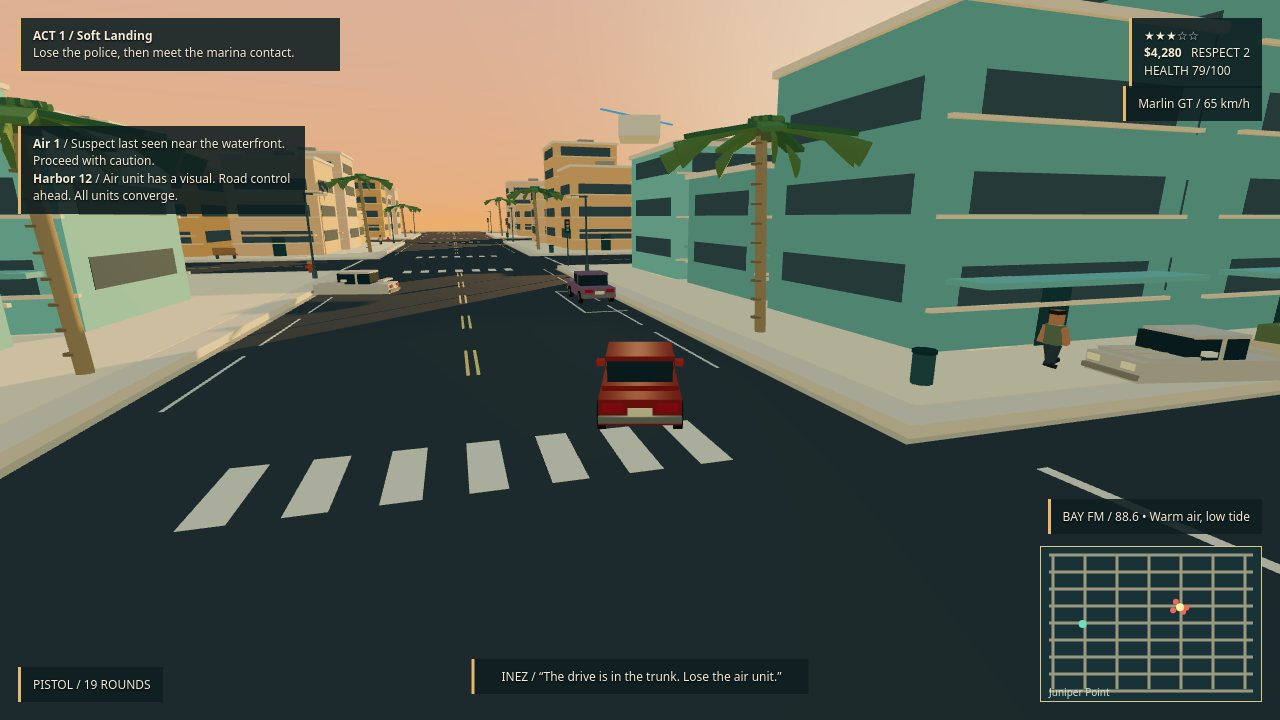
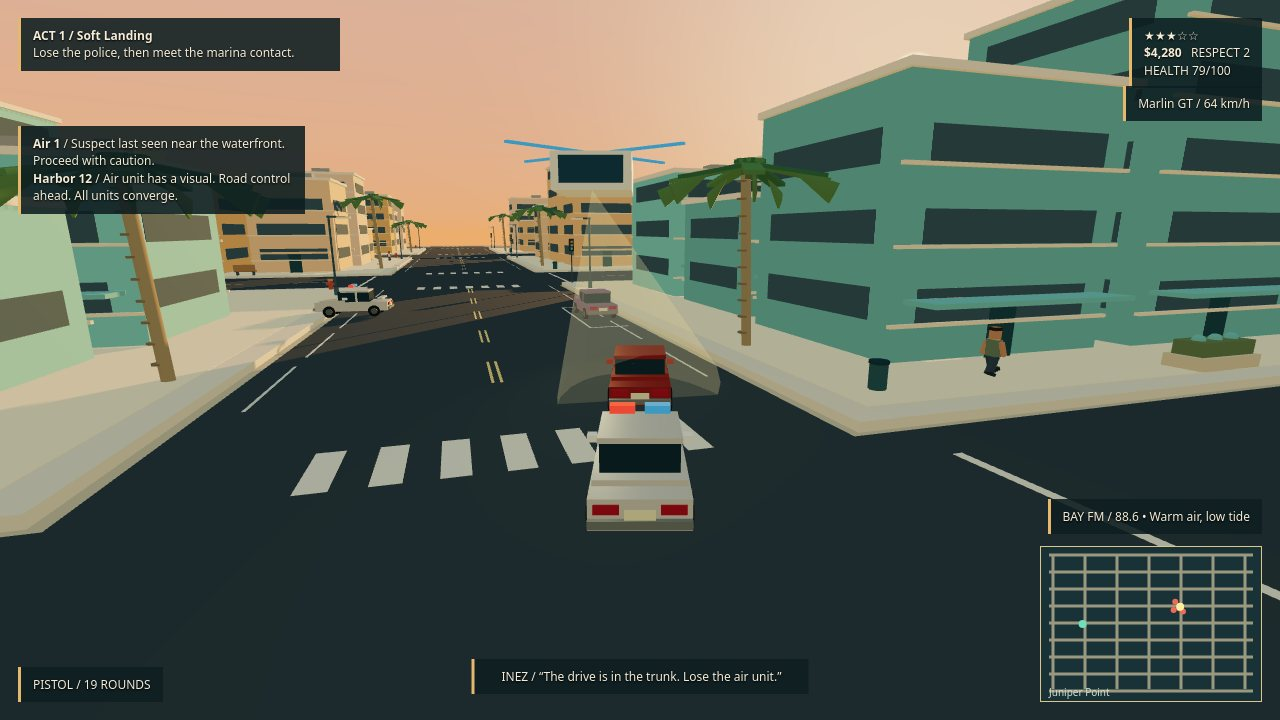
v2 phase 4: shot-quality fixes (combat guards, cover heli, drive pursuit)

diff --git a/game/src/combat/Weapons.js b/game/src/combat/Weapons.js
@@ -2,11 +2,54 @@ import * as THREE from 'three';
 
 export class Weapons {
   constructor(scene, player) { this.scene = scene; this.player = player; this.enemies = []; this.selected = 'pistol'; this.ammo = 24; this.health = 100; this.feedback = ''; this.cooldown = 0; }
-  spawnEnemy(x, z, health = 3) {
-    const group = new THREE.Group(); group.name = 'Rook crew';
-    const body = new THREE.Mesh(new THREE.CapsuleGeometry(0.34, 0.9, 3, 7), new THREE.MeshStandardMaterial({ color: '#733f38' })); body.position.y = 1; group.add(body);
-    const enemy = { group, position: group.position, health, maxHealth: health, alive: true, hitFlash: 0 };
-    group.position.set(x, 0.3, z); this.scene.add(group); this.enemies.push(enemy); return enemy;
+  spawnEnemy(x, z, health = 3, { aimAt = null, muzzleFlash = false } = {}) {
+    const group = new THREE.Group(); group.name = 'Rook crew guard';
+    const uniform = new THREE.MeshStandardMaterial({ color: '#344b59', roughness: 0.82 });
+    const vest = new THREE.MeshStandardMaterial({ color: '#63716a', roughness: 0.9 });
+    const skin = new THREE.MeshStandardMaterial({ color: '#b98968', roughness: 0.9 });
+    const dark = new THREE.MeshStandardMaterial({ color: '#202b31', roughness: 0.85 });
+    const makeBox = (parent, material, size, position) => {
+      const mesh = new THREE.Mesh(new THREE.BoxGeometry(...size), material);
+      mesh.position.set(...position); mesh.castShadow = true; mesh.receiveShadow = true; parent.add(mesh); return mesh;
+    };
+    const segment = (parent, material, start, end, width, depth = width) => {
+      const from = new THREE.Vector3(...start); const to = new THREE.Vector3(...end);
+      const direction = to.clone().sub(from); const mesh = new THREE.Mesh(new THREE.BoxGeometry(width, direction.length(), depth), material);
+      mesh.position.copy(from).add(to).multiplyScalar(0.5);
+      mesh.quaternion.setFromUnitVectors(new THREE.Vector3(0, 1, 0), direction.normalize());
+      mesh.castShadow = true; mesh.receiveShadow = true; parent.add(mesh); return mesh;
+    };
+    makeBox(group, vest, [0.57, 0.7, 0.32], [0, 1.2, 0]);
+    makeBox(group, dark, [0.2, 0.14, 0.34], [0, 1.57, -0.01]);
+    makeBox(group, skin, [0.31, 0.34, 0.3], [0, 1.76, 0]);
+    makeBox(group, dark, [0.36, 0.14, 0.34], [0, 1.96, 0.01]);
+    for (const side of [-1, 1]) {
+      const hip = [side * 0.15, 0.85, 0];
+      segment(group, uniform, hip, [side * 0.17, 0.1, -0.015], 0.22, 0.25);
+      makeBox(group, dark, [0.25, 0.14, 0.37], [side * 0.17, 0.07, -0.055]);
+      if (aimAt) {
+        const shoulder = [side * 0.29, 1.47, 0];
+        segment(group, uniform, shoulder, [side * 0.19, 1.34, -0.31], 0.17, 0.19);
+        segment(group, skin, [side * 0.19, 1.34, -0.31], [side * 0.035, 1.37, -0.68], 0.13, 0.15);
+      } else {
+        segment(group, uniform, [side * 0.29, 1.47, 0], [side * 0.38, 1.05, -0.02], 0.17, 0.19);
+        segment(group, skin, [side * 0.38, 1.05, -0.02], [side * 0.36, 0.94, -0.22], 0.13, 0.15);
+      }
+    }
+    const enemy = { group, position: group.position, health, maxHealth: health, alive: true, hitFlash: 0, aiming: Boolean(aimAt) };
+    if (aimAt) {
+      group.rotation.y = Math.atan2(-(aimAt.x - x), -(aimAt.z - z));
+      makeBox(group, dark, [0.13, 0.11, 0.42], [0, 1.39, -0.84]);
+      makeBox(group, dark, [0.09, 0.13, 0.15], [0, 1.29, -0.66]);
+      if (muzzleFlash) {
+        const flash = new THREE.Mesh(new THREE.SphereGeometry(0.23, 8, 6), new THREE.MeshBasicMaterial({ color: '#ffd86c' }));
+        flash.position.set(0, 1.4, -1.08); group.add(flash);
+        const glow = new THREE.MeshBasicMaterial({ color: '#ffbd47', transparent: true, opacity: 0.88 });
+        const tracer = new THREE.Mesh(new THREE.CylinderGeometry(0.045, 0.045, 3.5, 6), glow);
+        tracer.rotation.x = -Math.PI / 2; tracer.position.set(0, 1.4, -2.85); group.add(tracer);
+      }
+    }
+    group.position.set(x, 0, z); this.scene.add(group); this.enemies.push(enemy); return enemy;
   }
   aimTarget(maxDistance = 38) {
     let best = null; let score = maxDistance;

diff --git a/game/src/police/PoliceAI.js b/game/src/police/PoliceAI.js
@@ -11,10 +11,19 @@ export class PoliceAI {
   createHeli() {
     const root = new THREE.Group(); root.name = 'VBPD air unit';
     const body = new THREE.Mesh(new THREE.BoxGeometry(2.7, 1.25, 4.4), this.material); body.position.y = 9; root.add(body);
+    const cockpit = new THREE.Mesh(new THREE.BoxGeometry(2.15, 0.88, 1.65), new THREE.MeshStandardMaterial({ color: '#29434b', emissive: '#13292e', metalness: 0.2, roughness: 0.36 }));
+    cockpit.position.set(0, 9.05, 1.42); root.add(cockpit);
+    const tail = new THREE.Mesh(new THREE.CylinderGeometry(0.22, 0.32, 4.1, 8), this.material); tail.rotation.x = Math.PI / 2; tail.position.set(0, 9.08, -3.65); root.add(tail);
+    const fin = new THREE.Mesh(new THREE.BoxGeometry(0.2, 1.15, 0.72), this.material); fin.position.set(0, 9.5, -5.38); root.add(fin);
+    const stabilizer = new THREE.Mesh(new THREE.BoxGeometry(2.25, 0.12, 0.7), this.material); stabilizer.position.set(0, 9.05, -5.05); root.add(stabilizer);
     const lamp = new THREE.SpotLight('#fff0b2', 2.5, 75, Math.PI / 7, 0.5, 1.2);
     lamp.position.set(0, 8.4, 1.8); lamp.target.position.set(0, 0, -5); root.add(lamp, lamp.target);
     const rotor = new THREE.Mesh(new THREE.BoxGeometry(8, 0.08, 0.16), this.blue); rotor.position.y = 9.8; root.add(rotor);
-    this.scene.add(root); return { root, lamp, rotor, offset: { x: 12, y: 0, z: -7 } };
+    const crossRotor = new THREE.Mesh(rotor.geometry, rotor.material); crossRotor.rotation.y = Math.PI / 2; rotor.add(crossRotor);
+    const beamMaterial = new THREE.MeshStandardMaterial({ color: '#ffe9a6', emissive: '#927637', transparent: true, opacity: 0.18, depthWrite: false, side: THREE.DoubleSide });
+    const searchlight = new THREE.Mesh(new THREE.ConeGeometry(1, 1, 20), beamMaterial); searchlight.renderOrder = 1; root.add(searchlight);
+    root.scale.setScalar(1.55);
+    this.scene.add(root); return { root, lamp, rotor, searchlight, offset: { x: 12, y: 0, z: -7 } };
   }
 
   ensure(level, player) {
@@ -43,7 +52,7 @@ export class PoliceAI {
       const distance = Math.hypot(dx, dz); const desired = Math.atan2(-dx, -dz);
       let delta = Math.atan2(Math.sin(desired - car.heading), Math.cos(desired - car.heading));
       car.heading += THREE.MathUtils.clamp(delta, -1.8 * dt, 1.8 * dt);
-      const speed = Math.min(car.spec.topSpeed * 0.78, 13 + level * 2.5);
+      const speed = car.shotPursuitSpeed ?? Math.min(car.spec.topSpeed * 0.78, 13 + level * 2.5);
       const moveX = -Math.sin(car.heading) * Math.min(distance, speed * dt);
       const moveZ = -Math.cos(car.heading) * Math.min(distance, speed * dt);
       this.collision.move(car.position, moveX, moveZ, car.radius);
@@ -56,7 +65,19 @@ export class PoliceAI {
       root.position.set(player.target.x + offset.x, offset.y, player.target.z + offset.z);
       root.rotation.y = player.facing;
       this.heli.rotor.rotation.y += dt * 18;
-      this.heli.lamp.target.position.set(player.target.x - root.position.x, -offset.y, player.target.z - root.position.z);
+      root.updateMatrixWorld(true);
+      const target = player.target.clone();
+      root.worldToLocal(target);
+      this.heli.lamp.target.position.copy(target);
+      const beam = this.heli.searchlight;
+      const start = this.heli.lamp.position;
+      const direction = this.heli.lamp.target.position.clone().sub(start);
+      const length = direction.length();
+      if (length > 0.01) {
+        beam.position.copy(start).addScaledVector(direction, 0.5);
+        beam.quaternion.setFromUnitVectors(new THREE.Vector3(0, 1, 0), direction.clone().negate().normalize());
+        beam.scale.set(length * 0.2, length, length * 0.2);
+      }
     }
   }
 

diff --git a/game/src/shots/ShotScenes.js b/game/src/shots/ShotScenes.js
@@ -21,8 +21,8 @@ export function createShotScenes(app) {
     systems.missions.start(config.mission); systems.weapons.health = config.health; systems.weapons.ammo = config.ammo;
     systems.weapons.enemies.forEach(enemy => app.scene.remove(enemy.group)); systems.weapons.enemies.length = 0;
     if (config.enemies) {
-      systems.weapons.spawnEnemy(config.x + 4.2, config.z - 6.5, 3);
-      systems.weapons.spawnEnemy(config.x - 4.2, config.z - 7.5, 2);
+      systems.weapons.spawnEnemy(config.x + 4.2, config.z - 6.5, 3, { aimAt: player.target, muzzleFlash: true });
+      systems.weapons.spawnEnemy(config.x - 4.2, config.z - 7.5, 2, { aimAt: player.target });
     }
     if (config.driving) {
       let car = player.car;
@@ -35,8 +35,17 @@ export function createShotScenes(app) {
       systems.wanted.commitCrime(3); systems.wanted.setLevel(3);
       systems.dispatch.messages = [{ callsign: 'Harbor 12', text: 'Air unit has a visual. Road control ahead. All units converge.', district: state.city.districtAt(config.x,config.z).name, age: 0 }];
       systems.police.ensure(3, player);
-      systems.police.heli.offset = { x: 8, y: 2, z: -26 };
+      systems.police.heli.offset = { x: 2, y: -5, z: -15 };
+      const pursuit = systems.police.units[0];
+      pursuit.position.set(player.target.x + Math.sin(player.facing) * 8, 0.12, player.target.z + Math.cos(player.facing) * 8);
+      pursuit.heading = player.facing; pursuit.shotPursuitSpeed = 19; app.vehicles.animate(pursuit, 0);
       app.vehicles.spawn(config.x + 18, config.z + 15, 0, { traffic: true, model: 1 });
+    }
+    if (name === 'driveCarjacking') {
+      systems.police.ensure(config.wanted, player);
+      const pursuit = systems.police.units[0];
+      pursuit.position.set(player.target.x + Math.sin(player.facing) * 9, 0.12, player.target.z + Math.cos(player.facing) * 9);
+      pursuit.heading = player.facing; pursuit.shotPursuitSpeed = 24.5; app.vehicles.animate(pursuit, 0);
     }
     if (name === 'garageEconomy') {
       systems.shops.owned = new Set(['engine','armor','pistol']);
@@ -44,9 +53,10 @@ export function createShotScenes(app) {
     }
     systems.missions.dialogue = name === 'coverHeliChase' ? 'INEZ / “The drive is in the trunk. Lose the air unit.”' : systems.missions.dialogue;
     app.chase.snap(player);
-    if (name === 'coverHeliChase') app.chase.setOrbit(player.facing, 0.14, 1);
+    if (name === 'coverHeliChase') app.chase.setOrbit(player.facing, 0.14, 1.35);
+    if (name === 'driveCarjacking') app.chase.setOrbit(player.facing, 0.14, 1.4);
     if (config.camera) app.chase.setOrbit(config.camera.heading, config.camera.pitch, config.camera.distance);
-    if (config.camera || name === 'coverHeliChase') app.chase.update(0, player);
+    if (config.camera || name === 'coverHeliChase' || name === 'driveCarjacking') app.chase.update(0, player);
     app.sky.update(0, player.target, app.camera); app.renderer.render(app.scene, app.camera);
     return state.snapshot();
   };
